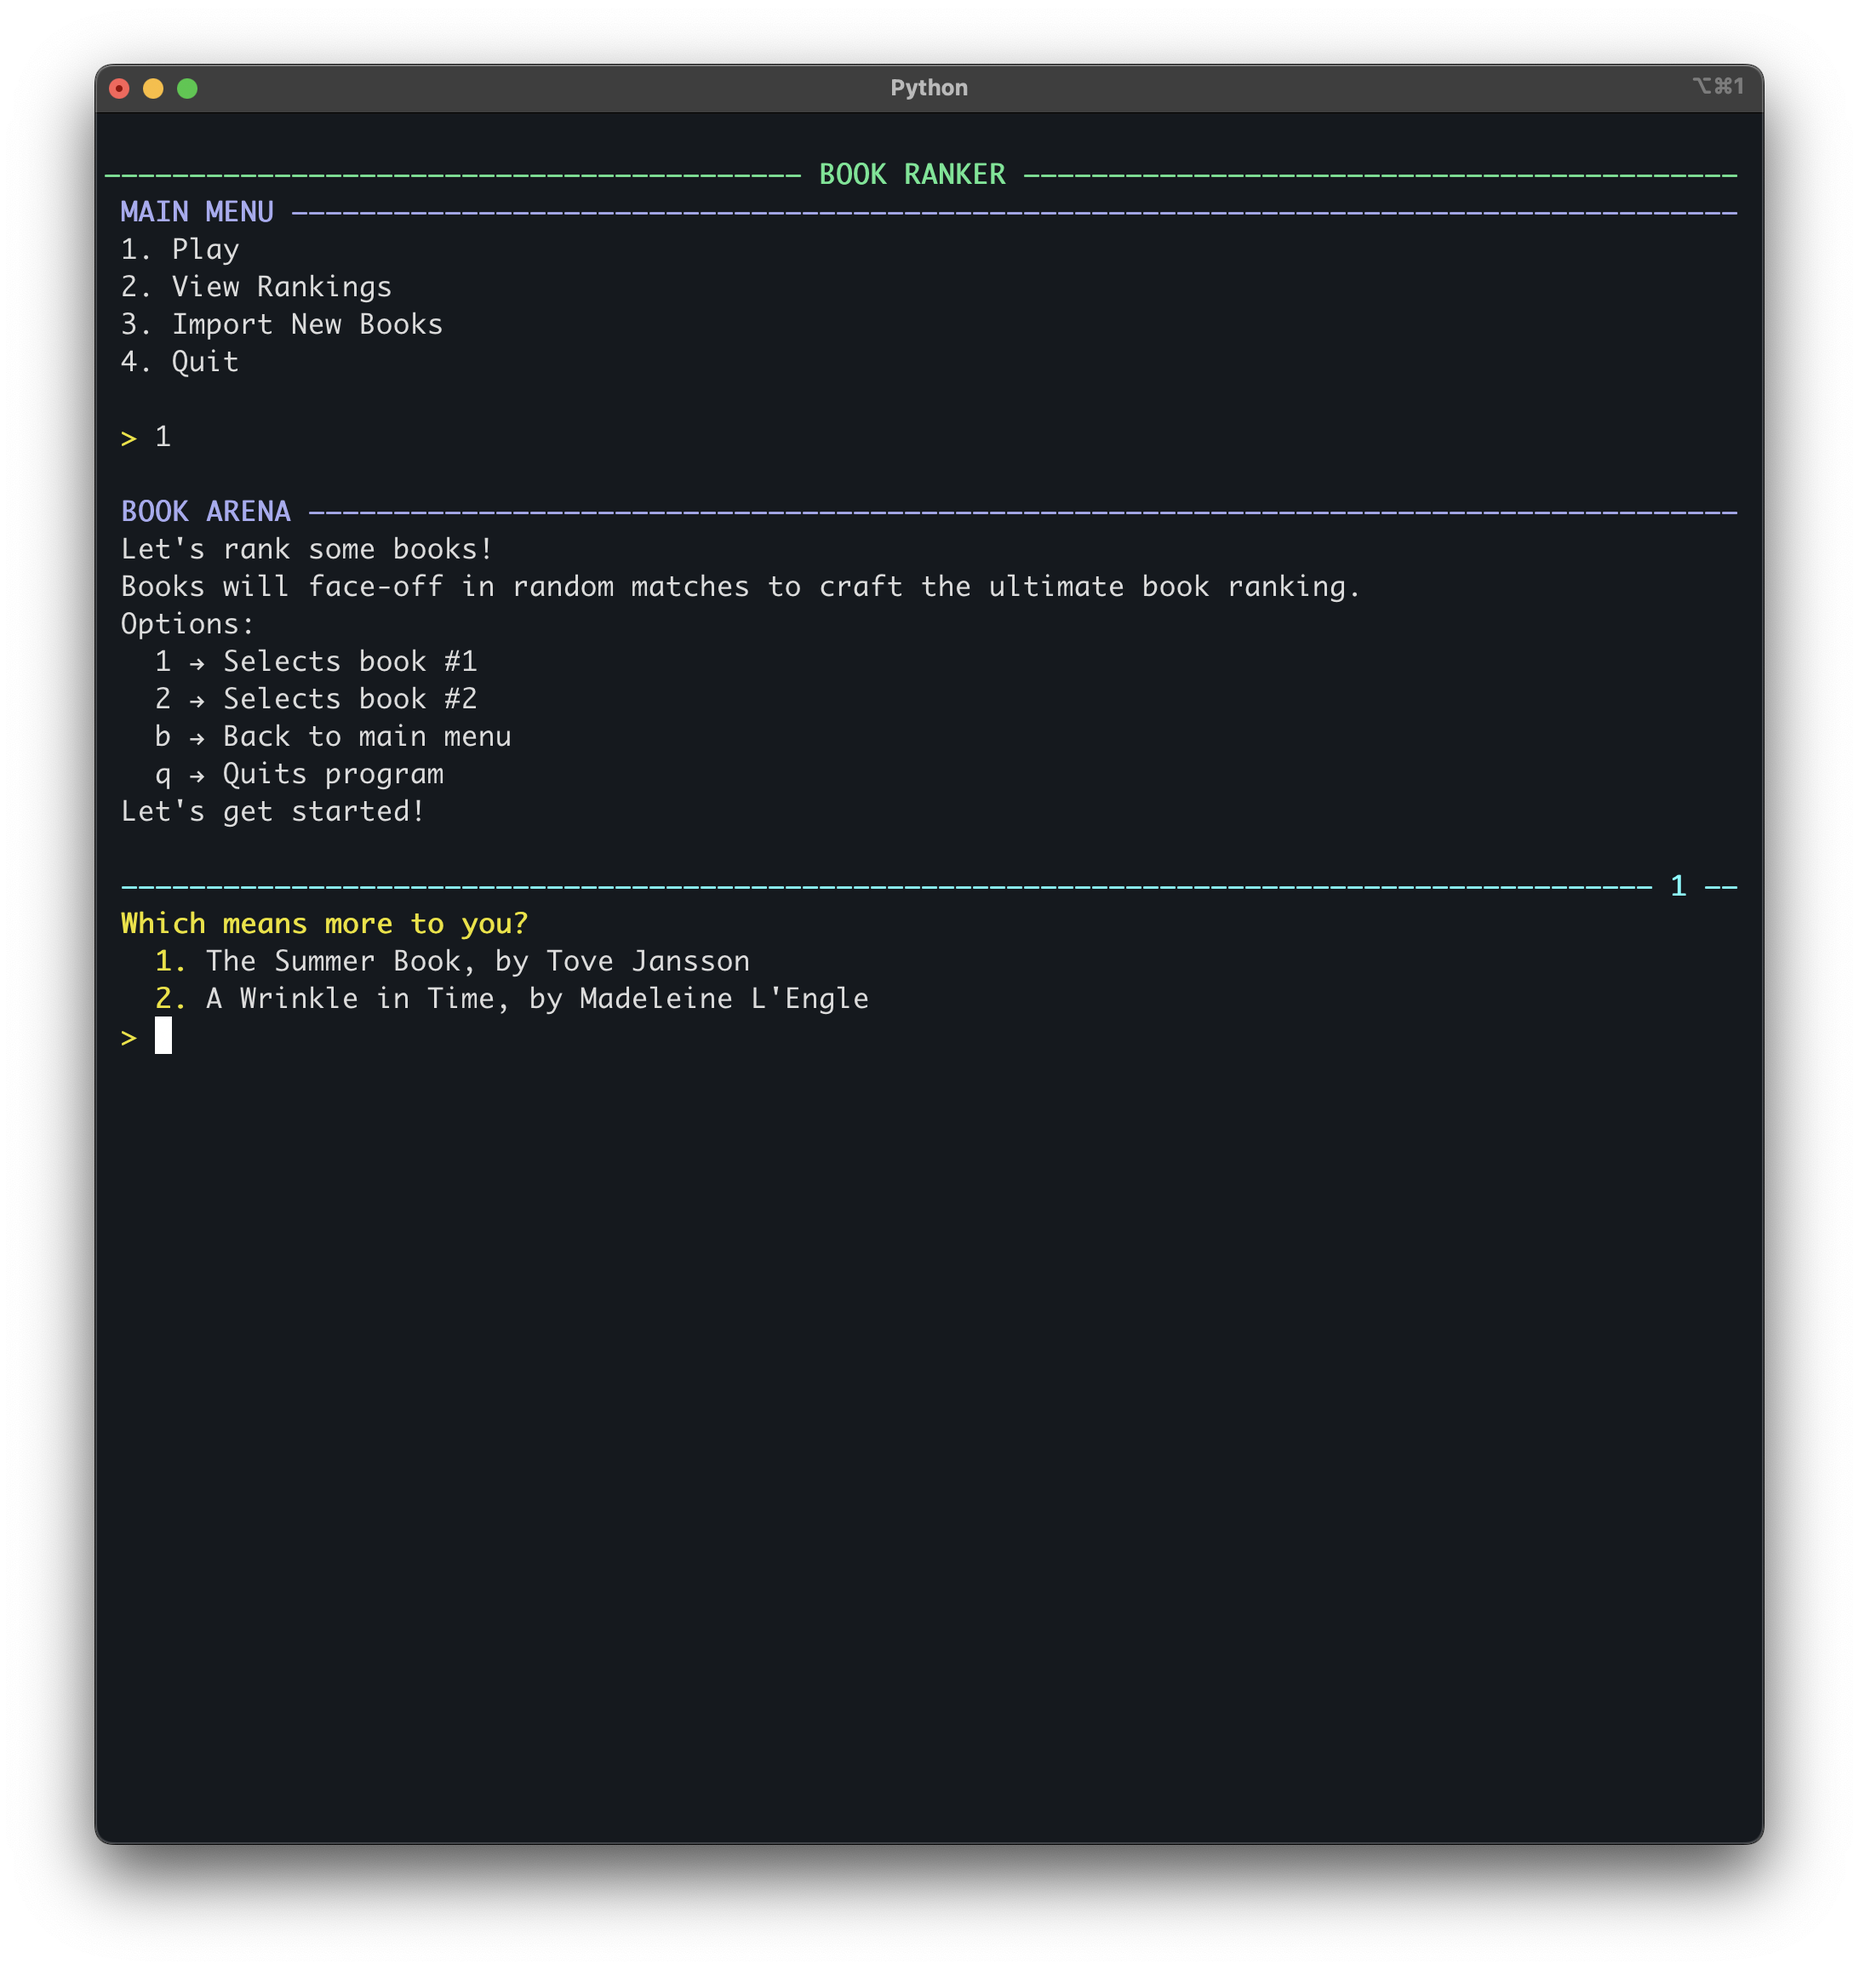
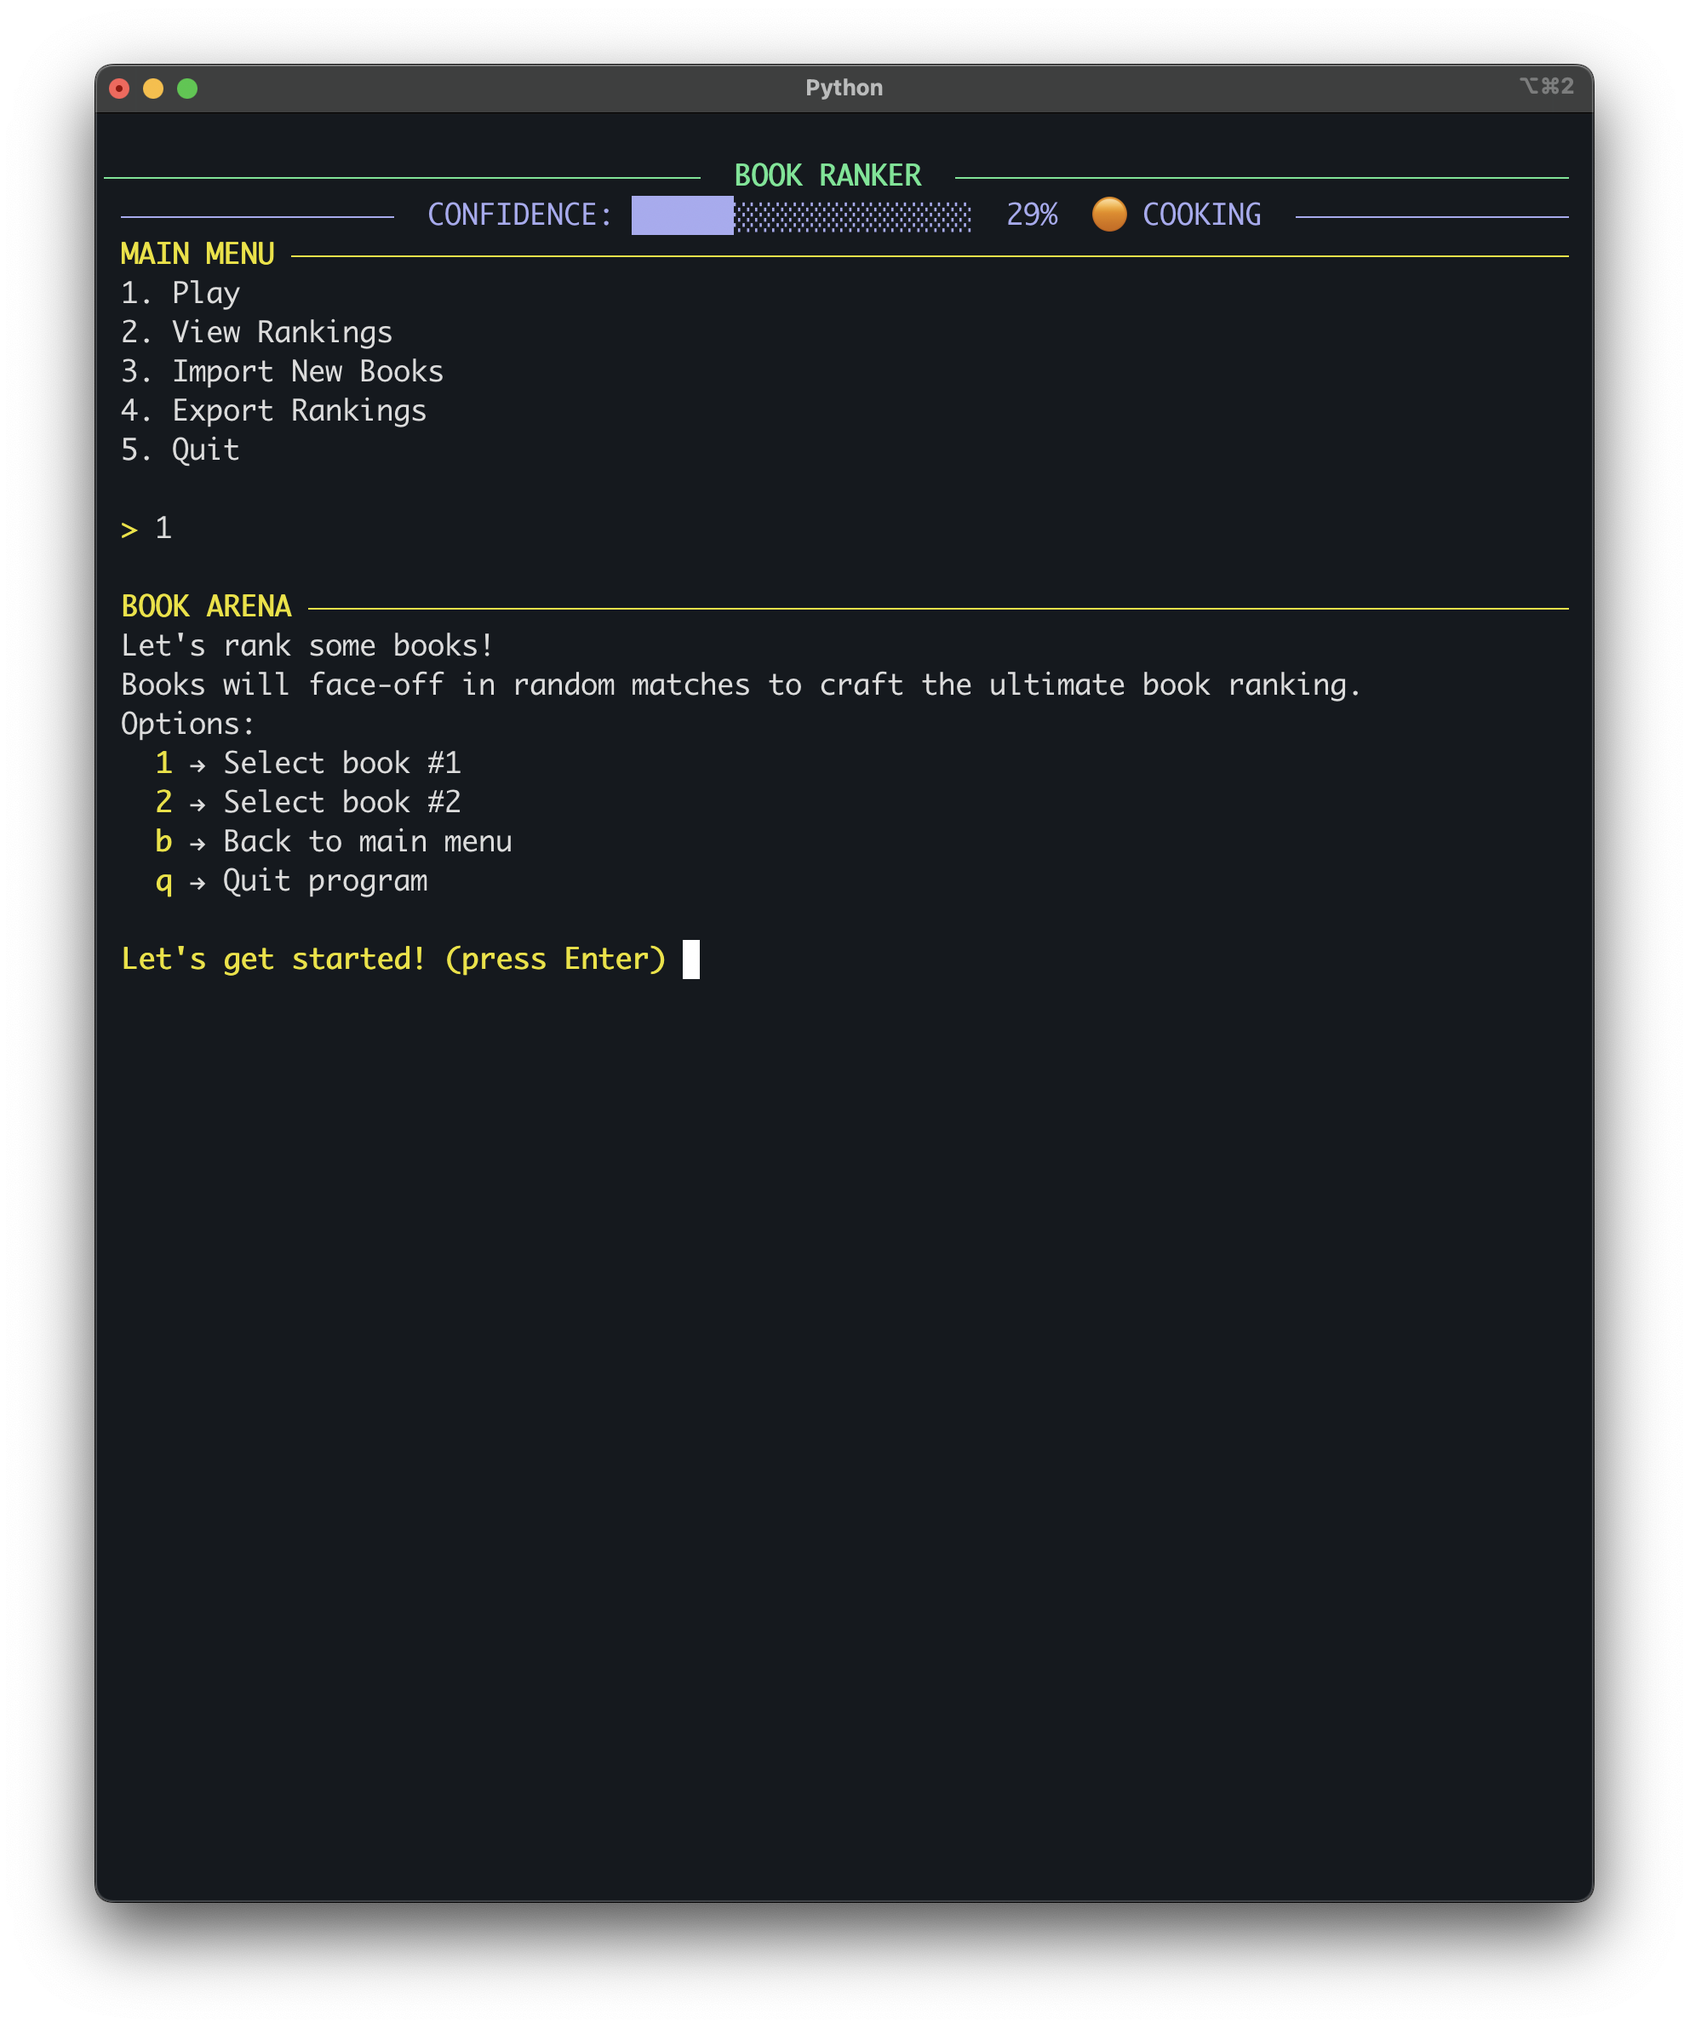
docs: update README screenshots

diff --git a/README.md b/README.md
@@ -23,6 +23,9 @@ favorite book of all time is. Those days are over!
 <details>
 <summary><b>&nbsp;Screenshots of latest version</b></summary>
 
+<h3>Main Menu:</h3>
+<img src="screenshots/main-menu-1.png" alt="Main Menu">
+
 <h3>Book Arena:</h3>
 <img src="screenshots/game-arena-1.png" alt="Game Arena Start">
 <img src="screenshots/game-arena-2.png" alt="Game Arena ongoing comparisons">
@@ -31,6 +34,9 @@ favorite book of all time is. Those days are over!
 <h3>View Rankings:</h3>
 <img src="screenshots/rankings-1.png" alt="Rankings display 1">
 <img src="screenshots/rankings-2.png" alt="Rankings display 2">
+
+<h3>Export Rankings:</h3>
+<img src="screenshots/export-rankings-1.png" alt="Export Rankings">
 
 
 </details>
@@ -190,16 +196,18 @@ mathematically robust, way to reflect on their books.
 
 ## 🗂 Project Structure
 
-| File                               | Description                                                   |
-|------------------------------------|---------------------------------------------------------------|
-| [`main.py`](main.py)               | Entry point and main menu                                     |
-| [`game.py`](game.py)               | Game loop and matchmaking logic                               |
-| [`models.py`](models.py)           | Book class                                                    |
-| [`db.py`](db.py)                   | Database setup and queries                                    |
-| [`csv_handler.py`](csv_handler.py) | CSV import and export logic                                   |
-| [`display.py`](display.py)         | Rankings display and UI constants                             |
-| [`state.py`](state.py)             | Global state management                                       |
-| [`ranking.py`](ranking.py)         | Mathematical calculations of Elo scores and confidence levels |
+| File                               | Description                           |
+|------------------------------------|---------------------------------------|
+| [`main.py`](main.py)               | Entry point and main menu             |
+| [`game.py`](game.py)               | Game loop and matchmaking logic       |
+| [`scoring.py`](scoring.py)         | Elo and confidence level calculations |
+| [`rankings.py`](rankings.py)       | Rankings display and table rendering  |
+| [`models.py`](models.py)           | Book class                            |
+| [`db.py`](db.py)                   | Database setup and queries            |
+| [`csv_handler.py`](csv_handler.py) | CSV import and export handling        |
+| [`constants.py`](constants.py)     | UI strings and layout values          |
+| [`utils.py`](utils.py)             | Styling utilities                     |
+| [`state.py`](state.py)             | Global state management               |
 
 ## 🗺 Roadmap
 
